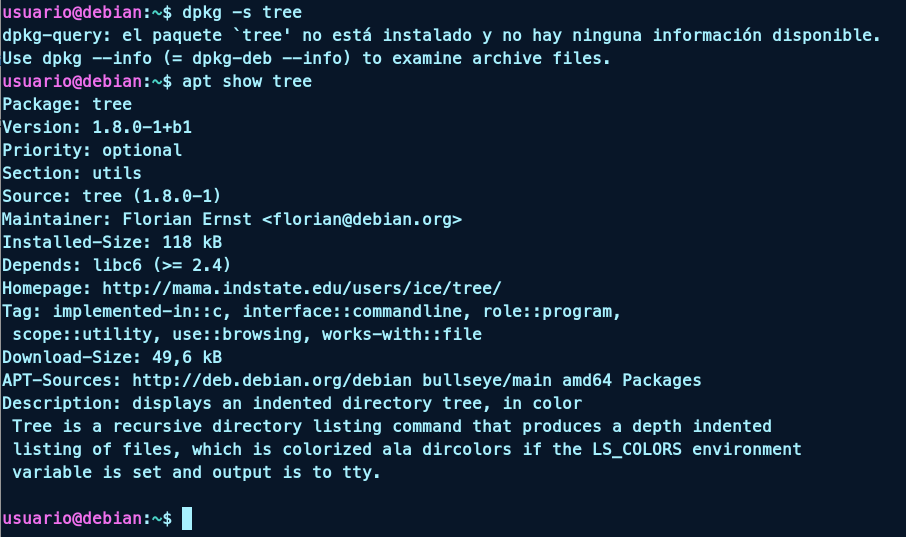
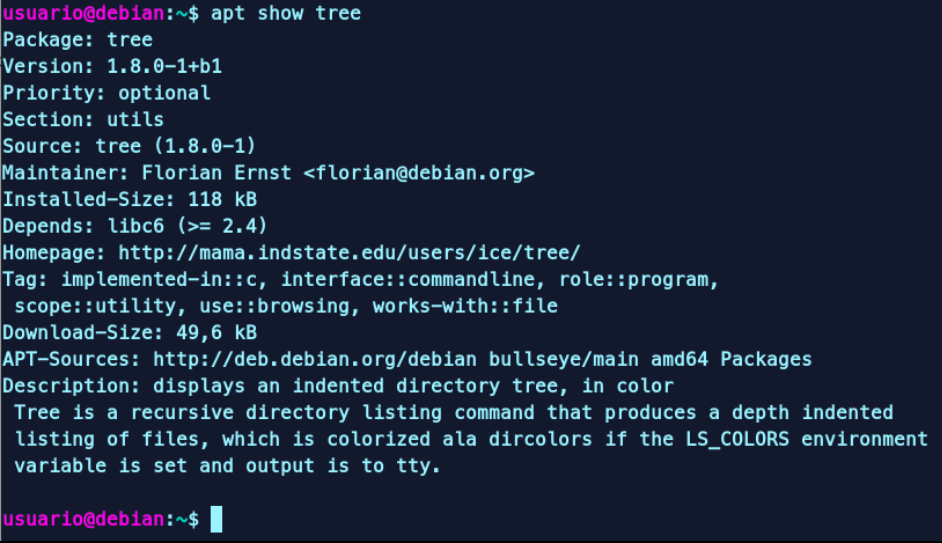
mod

Changed region(s): [[0.0, 0.0, 0.989, 0.8939], [0.0, 0.9236, 1.0, 1.0]]

diff --git a/docs/Tasks/gestion_paqueteria_aso.md b/docs/Tasks/gestion_paqueteria_aso.md
@@ -30,10 +30,7 @@ Para esto se ha usado el comando **apt policy**:
 
 4. ¿Cómo puedes sacar información de un paquete oficial instalado o que no este instalado?
 
-Hay dos posibles opciones:
-
-  * **dpkg -s**: aporta información si el paquete se encuentra instalado.
-  * **apt show**: detalla la información de paquetes pudiendo estar este instalado o no.
+**apt show**: detalla la información de paquetes pudiendo estar este instalado o no.
 
 Un ejemplo sería:
 
@@ -45,17 +42,32 @@ Para ver toda la información de este paquete se puede usar **apt-cache showpkg*
 
 6. Saca toda la información que puedas del paquete openssh-client candidato a actualizar en tu máquina.
 
-Se puede
+Para sacar toda la información se he usado el comando **aptitude show** donde vemos:
+
+![Repo](/img/ASO/paqueteriaASO-4.png)
 
 7. Lista todo el contenido referente al paquete openssh-client actual de tu máquina. Utiliza para ello tanto dpkg como apt.
 
+* `dpkg -L openssh-client`
+
+* `apt-file list openssh-client`
+
 8. Listar el contenido de un paquete sin la necesidad de instalarlo o descargarlo.
+
+* `apt-file list`
 
 9. Simula la instalación del paquete openssh-client.
 
+* `apt-get install -s openssh-client`
+![Repo](/img/ASO/paqueteriaASO-5.png)
+
 10. ¿Qué comando te informa de los posible bugs que presente un determinado paquete?
 
+* `apt-listbugs -s all list`
+
 11. Después de realizar un apt update && apt upgrade. Si quisieras actualizar únicamente los paquetes que tienen de cadena openssh. ¿Qué procedimiento seguirías?. Realiza esta acción, con las estructuras repetitivas que te ofrece bash, así como con el comando xargs.
+
+
 
 12. ¿Cómo encontrarías qué paquetes dependen de un paquete específico.
 
